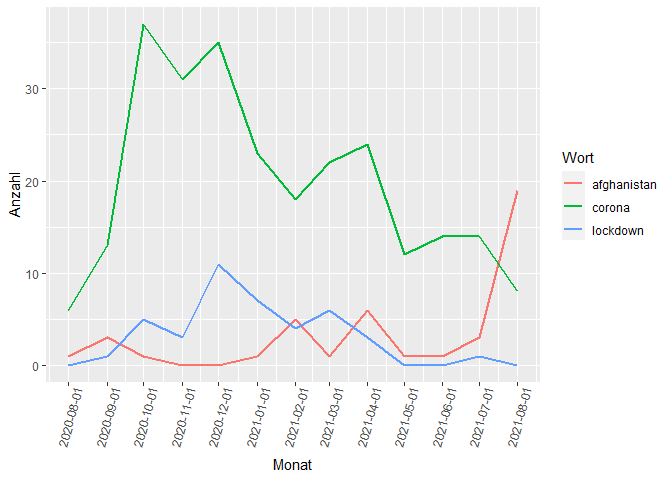
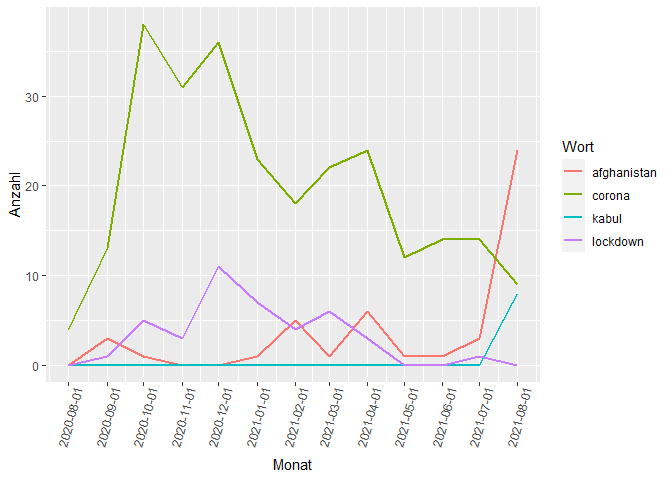
update .rmd

diff --git a/analysis.md b/analysis.md
@@ -17,7 +17,7 @@ library(tidytext)
 library(tidyr)
 
 # Load data
-date_of_data_to_load <- "2021-08-26"
+date_of_data_to_load <- "2021-08-29"
 load(file = paste0("data/", "news_", date_of_data_to_load, ".Rdata"))
 ```
 
@@ -25,7 +25,7 @@ load(file = paste0("data/", "news_", date_of_data_to_load, ".Rdata"))
 
 ## Date range
 
-The data collected from the webpage goes from 2017-08-31 to 2021-08-26.
+The data collected from the webpage goes from 2017-08-31 to 2021-08-28.
 
 ``` r
 # Articles by month
@@ -80,18 +80,17 @@ news_clean %>% distinct(Autor) %>% arrange(Autor)
     ## 9            Kathrin Aue
     ## 10            Katrin Aue
     ## 11          Lisa Krauser
-    ## 12        Mayer, Florian
-    ## 13       Peter Weitzmann
-    ## 14      SR 2 Kulturradio
-    ## 15      SR 2 KulturRadio
-    ## 16         Stefan Deppen
-    ## 17        Stephan Deppen
-    ## 18       Stephan Deppenh
-    ## 19        Thomas Shihabi
-    ## 20        Thomas SHihabi
-    ## 21 Thomas Shihabi et al.
-    ## 22     Yvonne Scheinhege
-    ## 23    Yvonne Schleinhege
+    ## 12       Peter Weitzmann
+    ## 13      SR 2 Kulturradio
+    ## 14      SR 2 KulturRadio
+    ## 15         Stefan Deppen
+    ## 16        Stephan Deppen
+    ## 17       Stephan Deppenh
+    ## 18        Thomas Shihabi
+    ## 19        Thomas SHihabi
+    ## 20 Thomas Shihabi et al.
+    ## 21     Yvonne Scheinhege
+    ## 22    Yvonne Schleinhege
 
 Let's head on to analyse the content and check which news appear within the daily news blocks.
 
@@ -108,48 +107,49 @@ news_clean_unnested <- news_clean %>%
   anti_join(stop_words_german, by = "Wort")
 ```
 
-Now, let's print the top 30 keywords by number of appearance.
+Now, let's print the top keywords by number of appearance.
 
 ``` r
 # Keyword frecuency
+top_n_keywords <- 30
 news_clean_unnested %>% 
   count(Wort, name = "Anzahl", sort = TRUE) %>% 
   head(top_n_keywords)
 ```
 
     ##           Wort Anzahl
-    ## 1       corona    257
+    ## 1       corona    258
     ## 2           eu    109
-    ## 3         lage     76
-    ## 4     saarland     73
-    ## 5    interview     51
-    ## 6   reaktionen     49
-    ## 7         neue     48
-    ## 8    bundestag     44
-    ## 9  afghanistan     42
+    ## 3         lage     81
+    ## 4     saarland     77
+    ## 5         neue     54
+    ## 6    interview     53
+    ## 7   reaktionen     49
+    ## 8  afghanistan     46
+    ## 9    bundestag     46
     ## 10    lockdown     41
-    ## 11     debatte     37
-    ## 12   kommentar     34
-    ## 13 deutschland     33
-    ## 14       jahre     32
-    ## 15        mehr     32
-    ## 16         usa     32
-    ## 17       china     29
-    ## 18       trump     29
-    ## 19          us     29
-    ## 20       spahn     27
-    ## 21        bund     26
-    ## 22        wahl     26
-    ## 23       woche     26
-    ## 24          ab     25
-    ## 25       biden     25
-    ## 26    aktuelle     24
-    ## 27  diskussion     24
-    ## 28      merkel     24
-    ## 29      berlin     23
-    ## 30  frankreich     23
+    ## 11     debatte     38
+    ## 12        mehr     36
+    ## 13 deutschland     35
+    ## 14         usa     35
+    ## 15   kommentar     34
+    ## 16       china     32
+    ## 17       jahre     32
+    ## 18       trump     31
+    ## 19          us     31
+    ## 20       woche     29
+    ## 21    aktuelle     28
+    ## 22       spahn     28
+    ## 23        wahl     28
+    ## 24        bund     27
+    ## 25          ab     26
+    ## 26  diskussion     26
+    ## 27       biden     25
+    ## 28   impfstoff     25
+    ## 29  frankreich     24
+    ## 30      länder     24
 
-We see, Corona clearly dominated the news and also EU related topics were discussed. Since SR2 is a regional broadcasting station, we also observe the keyword Saarland. If we sum up all US related keywords (Biden, Trump, USA, US) we notice it is another dominant topic, yet before news about the EU.
+We see, Corona clearly dominated the news and also EU related topics were discussed. Since SR2 is a regional broadcasting station, we also observe the keyword Saarland. If we sum up all US related keywords that show up (Biden, Trump, USA, US) we notice it is another dominant topic, yet before news about the EU.
 
 ``` r
 # Frecuency US related words
@@ -161,8 +161,8 @@ news_clean_unnested %>%
 ```
 
     ##                  Wort Anzahl
-    ## 1              corona    257
-    ## 2 US_keywords_summary    115
+    ## 1              corona    258
+    ## 2 US_keywords_summary    122
     ## 3                  eu    109
 
 On top of the list we also find Afghanistan, which might have entered the daily news just recently. Let's confirm this statement with the data and print keywords over time.
@@ -171,7 +171,7 @@ On top of the list we also find Afghanistan, which might have entered the daily 
 
 ``` r
 # Select keywords
-keywords <- c("lockdown", "corona", "afghanistan")
+keywords <- c("lockdown", "corona", "afghanistan", "kabul")
 
 # Selected keywords over time
 news_clean_unnested %>% 
@@ -192,6 +192,8 @@ news_clean_unnested %>%
 
 ![](analysis_files/figure-markdown_github/keywords%20over%20time-1.png)
 
-Indeed, we see that Afghanistan was almost not presented in the news till early 2021 and then increased majorly from July 2021. While the use of Corona is slowly decreasing, but still present, we see that the word lockdown had a boom in December 2020 and suddenly disappeard after April 2021. Shall we assume there was an internal SR2-guideline that prohibited the use of that word or may the reason be that since May 2021 lockdown measures were removed step by step?
+Indeed, we see that Afghanistan and its capital Kabul were almost not presented in the news till early 2021 and then increased heavily from July 2021. While the discourse about Corona is slowly decreasing, although still present, we see that the word lockdown had a boom in December 2020 and suddenly disappeard after April 2021. Shall we assume there was an internal SR2-guideline that prohibited using that word or may the reason be that since May 2021 lockdown measures were removed step by step?
 
-*work in progress*
+<p style="color:red;font-style:italic">
+work in progress
+</p>
